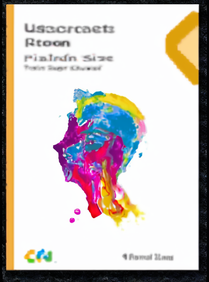
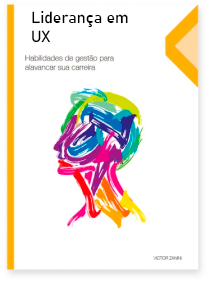
10-06

diff --git a/src/components/Pesquisa/dadosPesquisa.js b/src/components/Pesquisa/dadosPesquisa.js
@@ -1,0 +1,8 @@
+import livro from '../../img/livro.png'
+export const livros = [
+    {nome: 'Liderança em Design', id: 1, src:livro},
+    {nome: 'Liderança em UX', id: 1, src:livro},
+    {nome: 'JavaScript Assertivo', id: 2, src:livro},
+    {nome: 'Cangaceiro em JavaScript', id: 3, src:livro},
+    {nome: 'Aventureiros do Java', id: 4, src:livro},
+ ]
